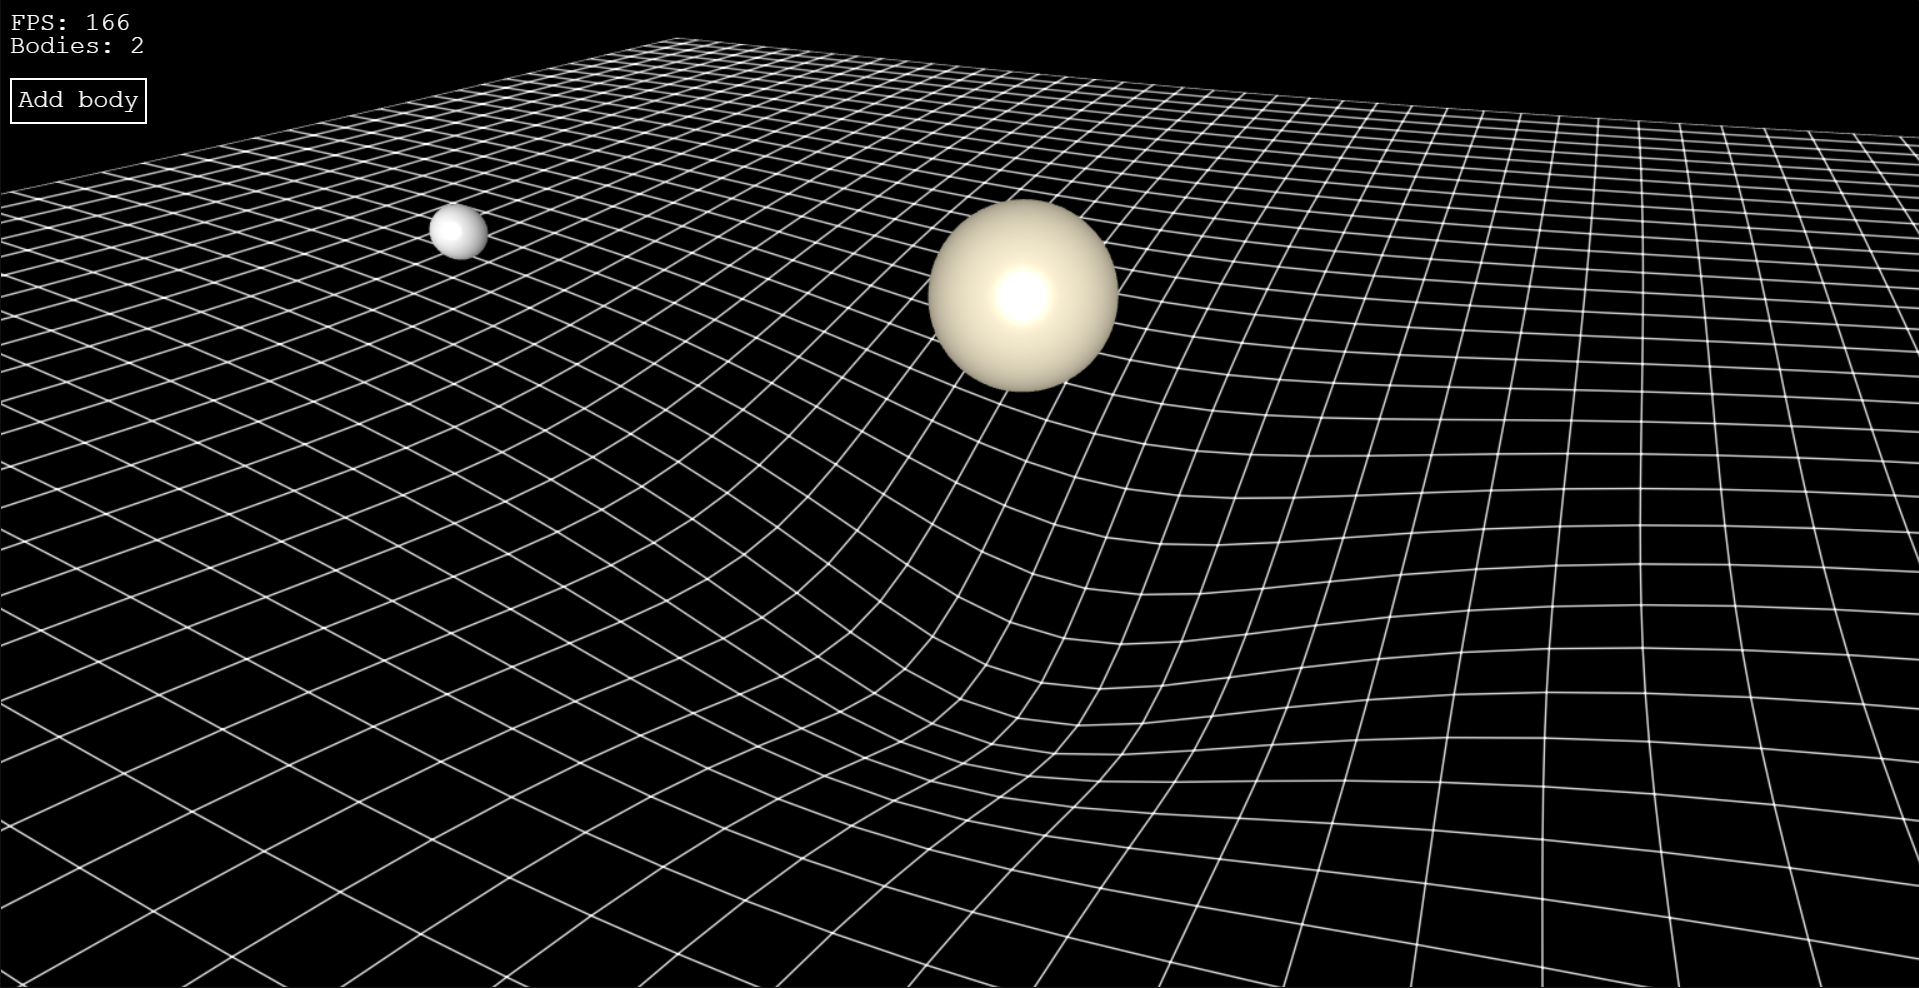
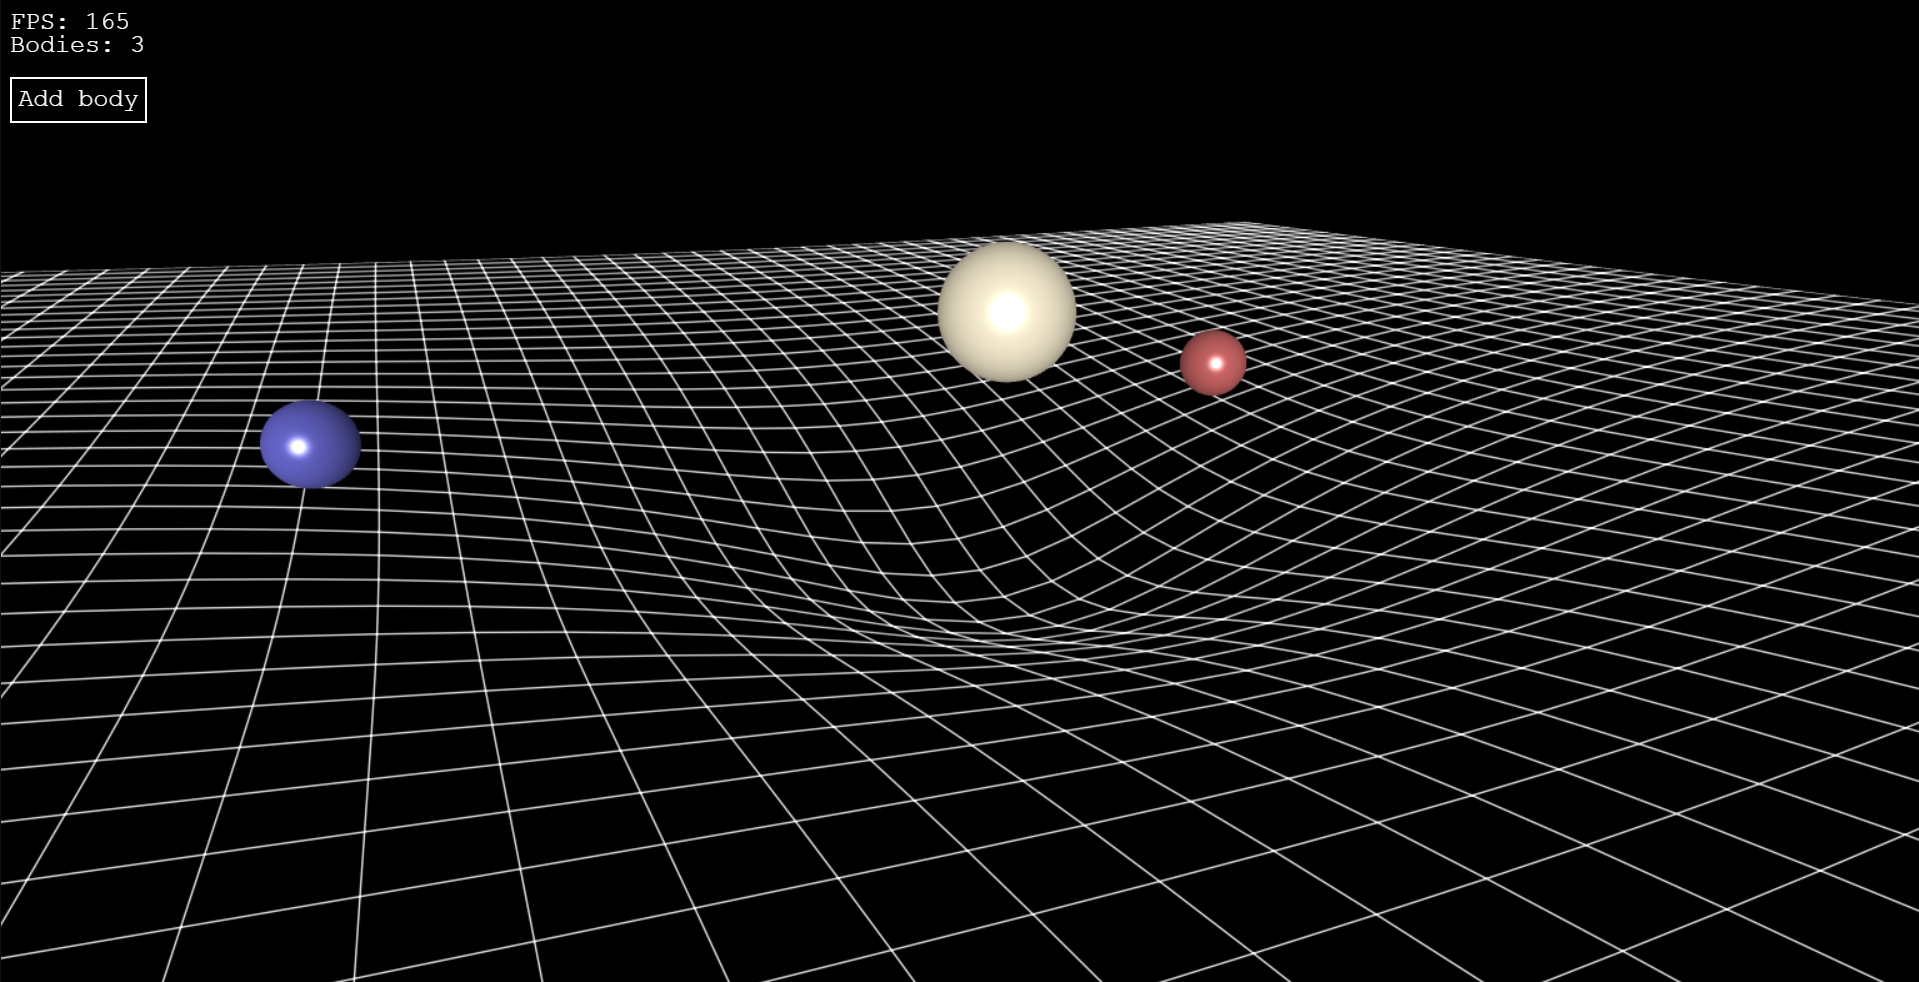
improve stable orbit

diff --git a/scene.js b/scene.js
@@ -1,32 +1,50 @@
 function loadScene() {
-    SYSTEM.planets = [
-        ...stableOrbit(), 
-    ];
+    SYSTEM.planets = stableOrbit();
 
     SYSTEM.createGravityGrid();
 }
 
+// should be pretty stable i think
 function stableOrbit() {
     const M = 100;
     const m = 5;
-    const r = 20;
 
-    // circular motion: mv^2/r = GMm/r^2
-    const v = Math.sqrt(SYSTEM.G * M / r);
+    const radii = [10, 20];
 
-    return [
+    const colors = [
+        [200, 100, 100],
+        [100, 100, 200]
+    ].map(c => rgbNorm(...c));
+
+    const planets = [
+        // central sun
         new Planet(
             M,
             new BABYLON.Vector3(0, 0, 0),
             new BABYLON.Vector3(0, 0, 0),
             new BABYLON.Color3(...rgbNorm(255, 244, 214))
-        ),
-        new Planet(
-            m,
-            new BABYLON.Vector3(r, 0, 0),
-            new BABYLON.Vector3(0, 0, v)
-        ),
+        )
     ];
+
+    radii.forEach((r, i) => {
+        // angular offset so they dont collide with each other (hopefully)
+        const theta = (i / radii.length) * 2 * Math.PI;
+
+        // circular motion = gravitational force
+        // mv^2/r = GMm/r^2
+        const v = Math.sqrt(SYSTEM.G * M / r);
+
+        planets.push(
+            new Planet(
+                m,
+                new BABYLON.Vector3(r * Math.cos(theta), 0, r * Math.sin(theta)),
+                new BABYLON.Vector3(-v * Math.sin(theta), 0, v * Math.cos(theta)),
+                new BABYLON.Color3(...colors[i])
+            )
+        );
+    });
+
+    return planets;
 }
 
 // normalise rgb values for babylonjs

diff --git a/README.md b/README.md
@@ -7,5 +7,4 @@ Controls:
 - Scale body: Mouse scroll
 - Reposition body: Mouse drag
   
-
-Demo: https://jeff-160.github.io/Gravity-Simulation/
+Demo: https://jeff-160.github.io/Gravity-Simulation
